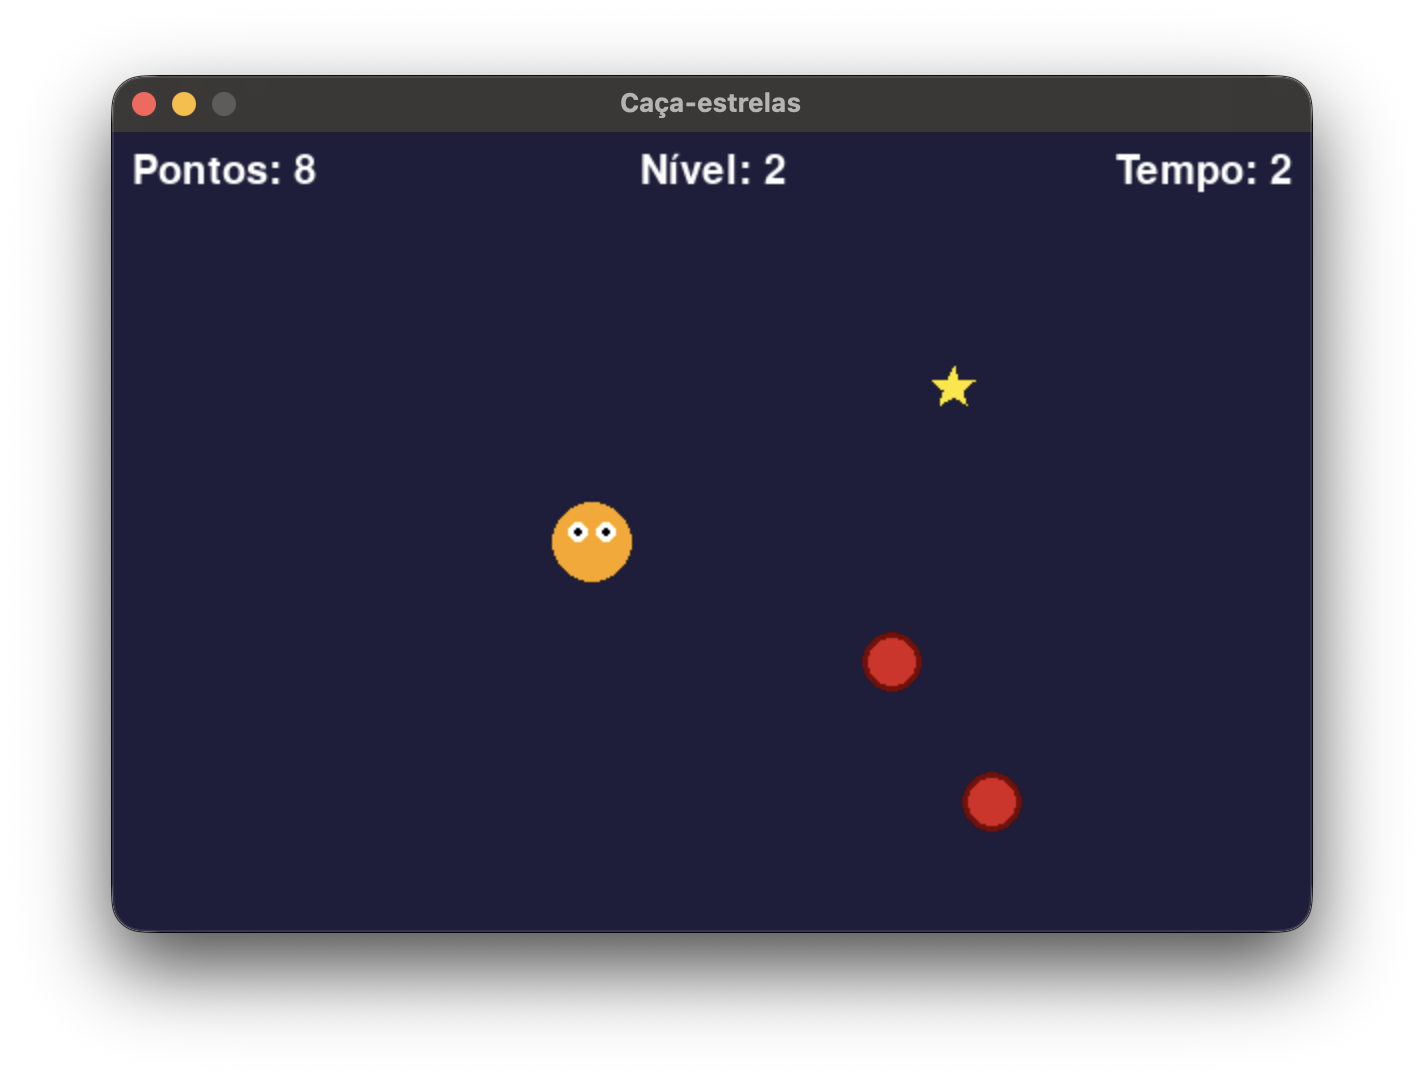
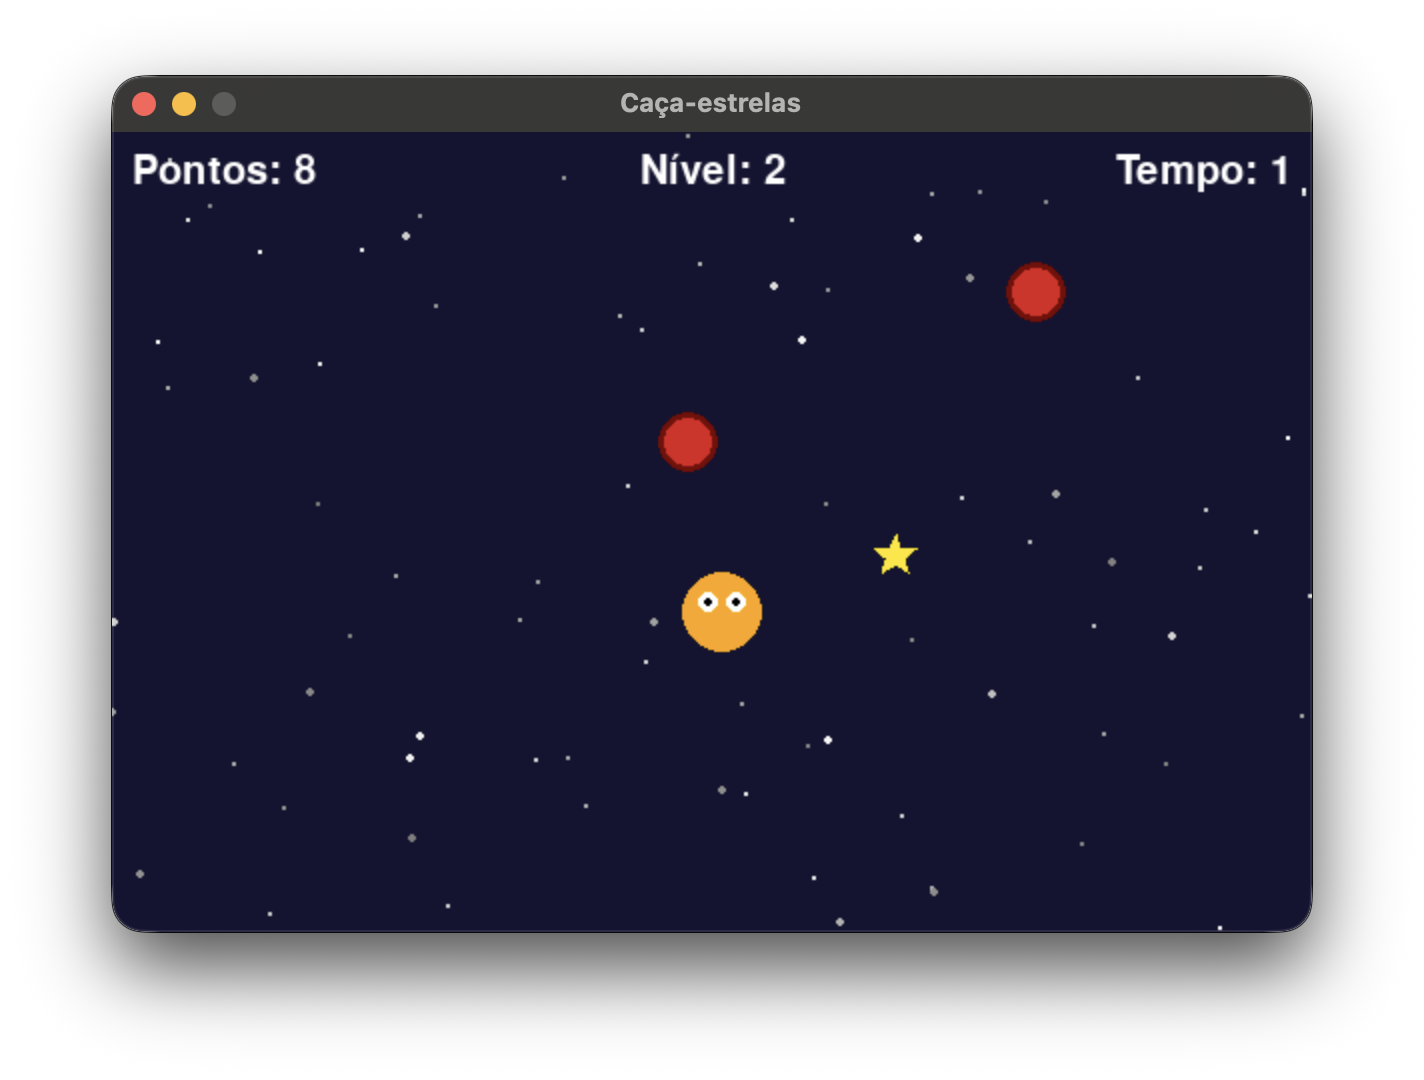
Adiciona fundo estrelado ao jogo

diff --git a/gerar_fundo.py b/gerar_fundo.py
@@ -1,0 +1,15 @@
+import random
+import pygame
+
+pygame.init()
+random.seed(7)
+fundo = pygame.Surface((600, 400))
+fundo.fill((20, 20, 50))
+for _ in range(80):
+    x = random.randint(0, 599)
+    y = random.randint(0, 399)
+    brilho = random.randint(120, 255)
+    tamanho = random.choice([1, 1, 2])
+    pygame.draw.circle(fundo, (brilho, brilho, brilho), (x, y), tamanho)
+pygame.image.save(fundo, "images/fundo.png")
+print("Fundo criado em images/fundo.png")

diff --git a/jogo.py b/jogo.py
@@ -38,7 +38,7 @@ def reposicionar(obstaculo):
 
 def draw():
     """Desenha a tela de acordo com o estado do jogo."""
-    screen.fill((30, 30, 60))
+    screen.blit("fundo", (0, 0))
     if estado == "inicio":
         screen.draw.text("Caça-estrelas", center=(300, 120), fontsize=64, color="yellow")
         screen.draw.text("Mova-se com as setas e pegue as estrelas", center=(300, 200), fontsize=28)

diff --git a/README.md b/README.md
@@ -56,10 +56,11 @@ O campo `certa` é a posição da resposta certa: 0 é a primeira opção, 1 é 
 
     jogo.py              jogo Caça-estrelas
     quiz_python.py       quiz de Python
-    images/              imagens do personagem, da estrela e do obstáculo
+    images/              imagens do personagem, da estrela, do obstáculo e do fundo
     sounds/              efeitos sonoros de acerto, erro e fim de jogo
     gerar_imagens.py     cria as imagens por código
     gerar_sons.py        cria os efeitos sonoros por código
+    gerar_fundo.py       cria o fundo estrelado por código
     evolucao/            as versões 1 a 6 do projeto, em ordem
 
 ## Evolução do projeto
